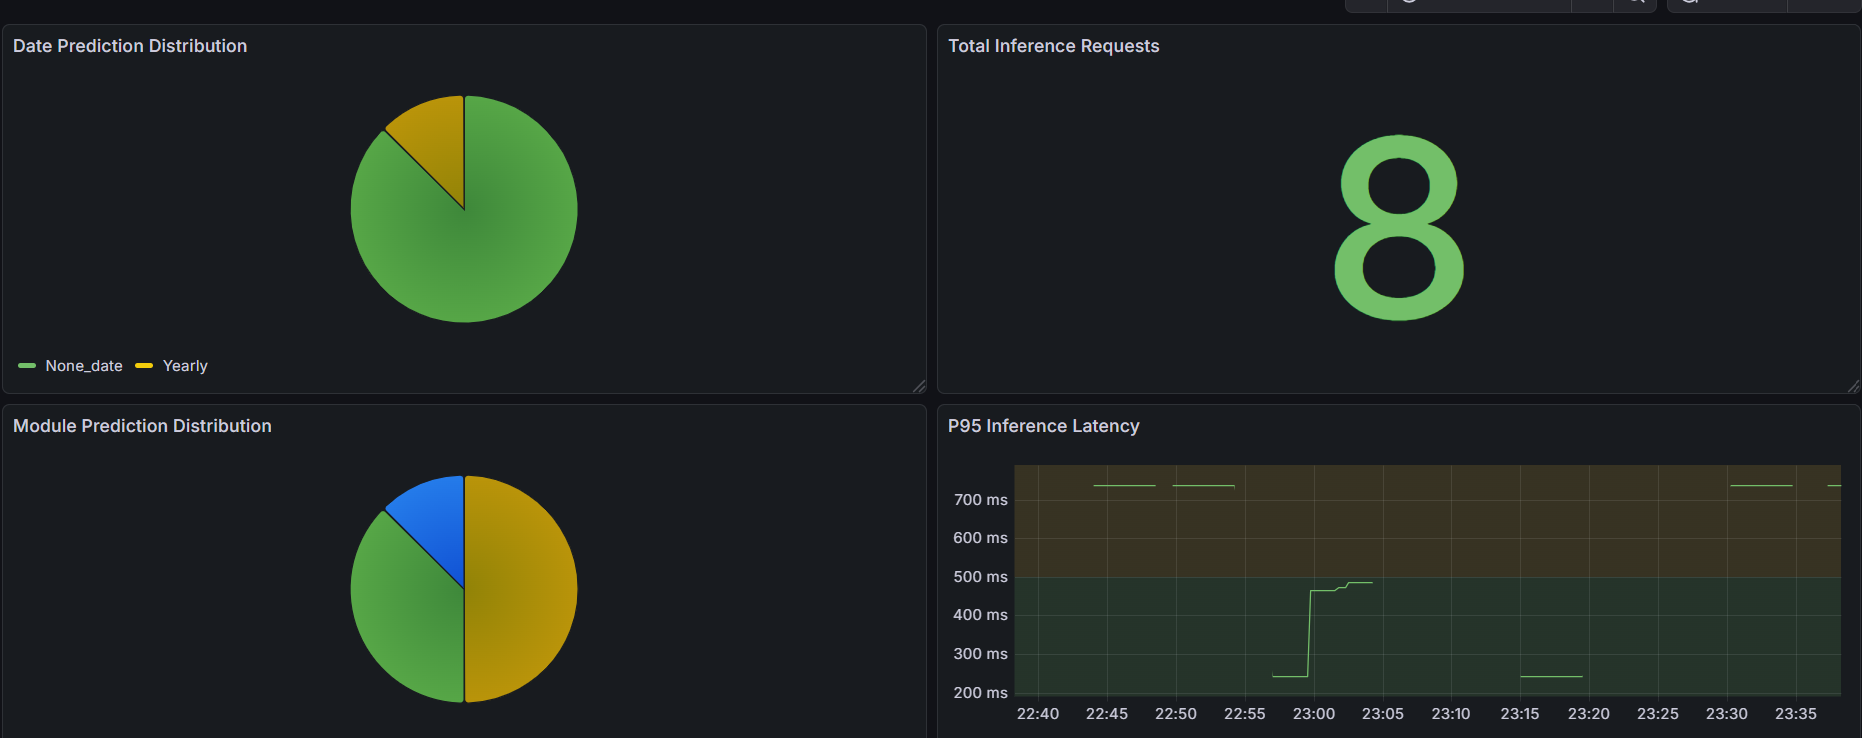
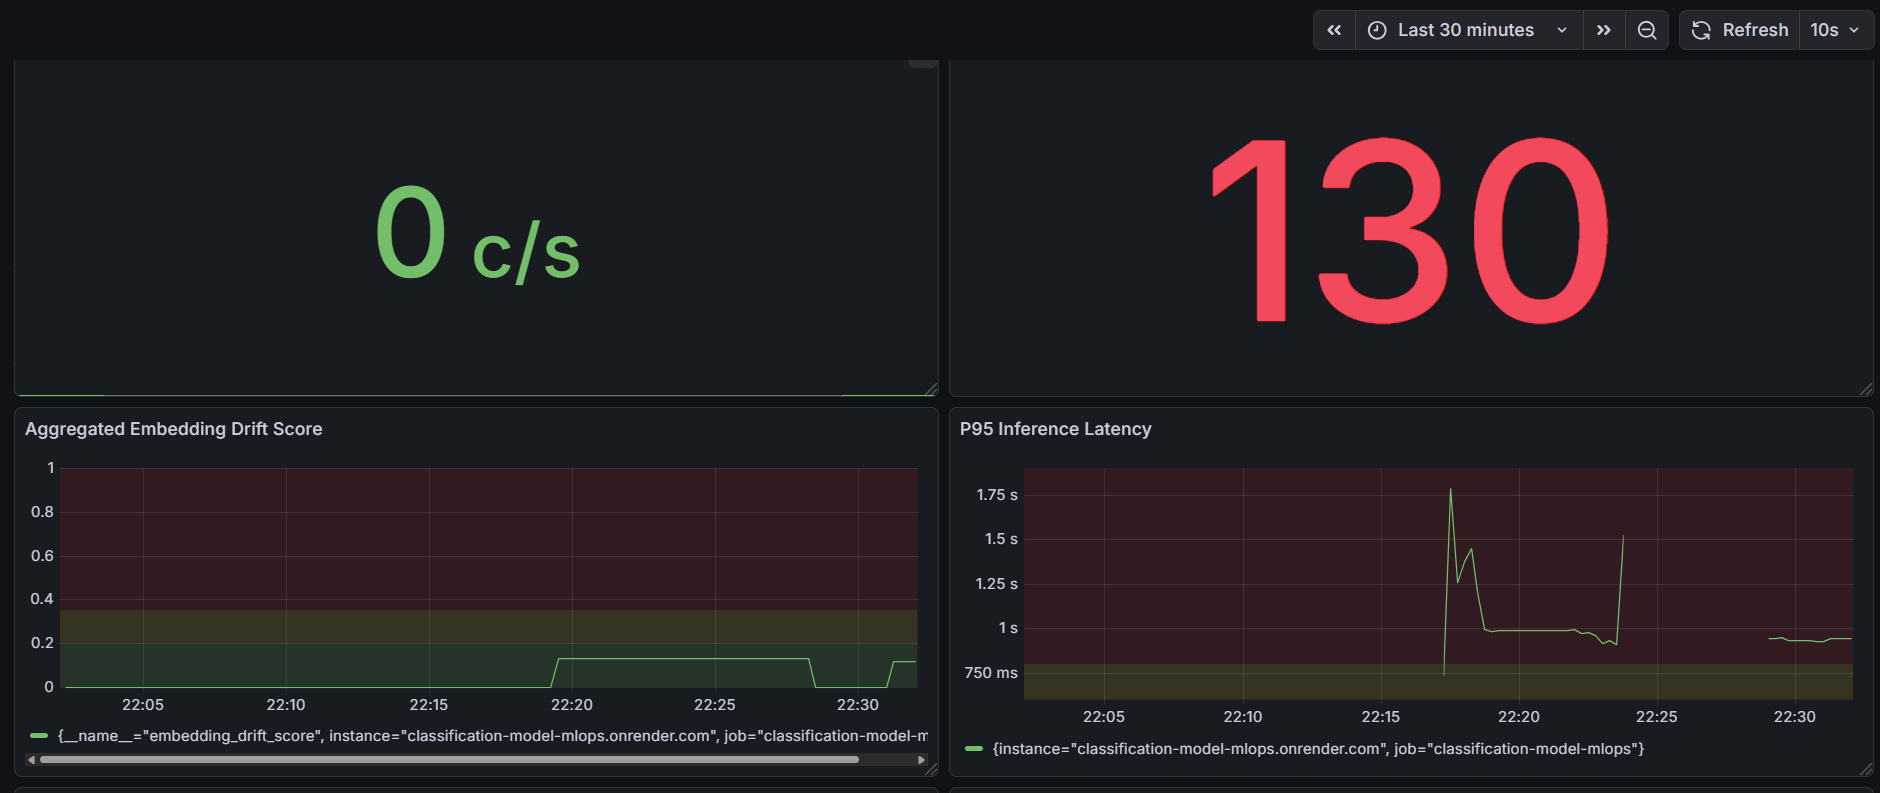
Updated readme and grafan images

diff --git a/README.md b/README.md
@@ -248,3 +248,14 @@ To run as a service:
 - Default port is **9090**
 - Configuration changes require Prometheus restart
 - Data is stored in the **data** directory inside Prometheus folder
+
+## Benchmark Results
+
+| Metric | Value |
+|--------|-------|
+| Total requests | 130 |
+| Successful calls | 130 |
+| Failures | 0 |
+| Average latency | 0.703s |
+| P95 latency | 1.158s |
+| Max latency | 1.279s |
